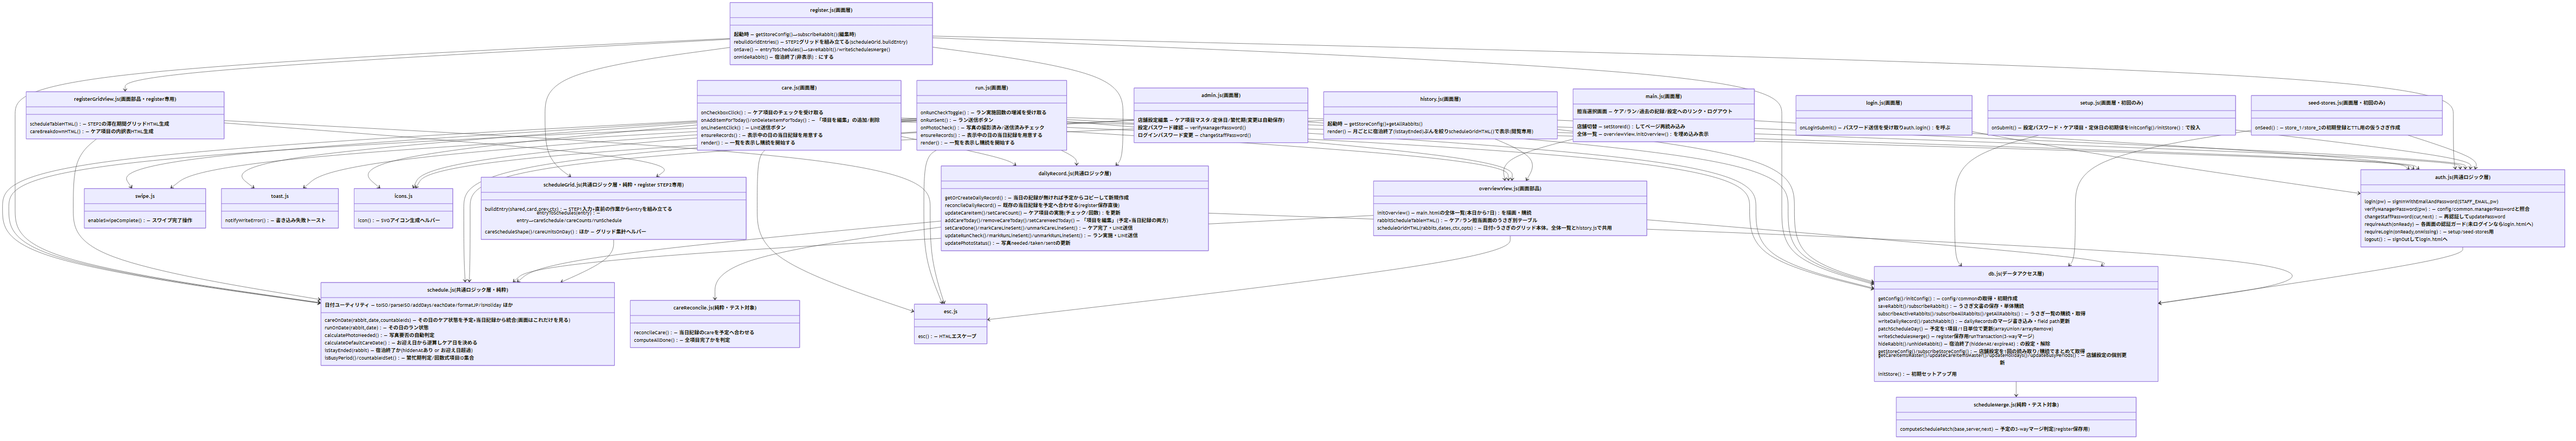
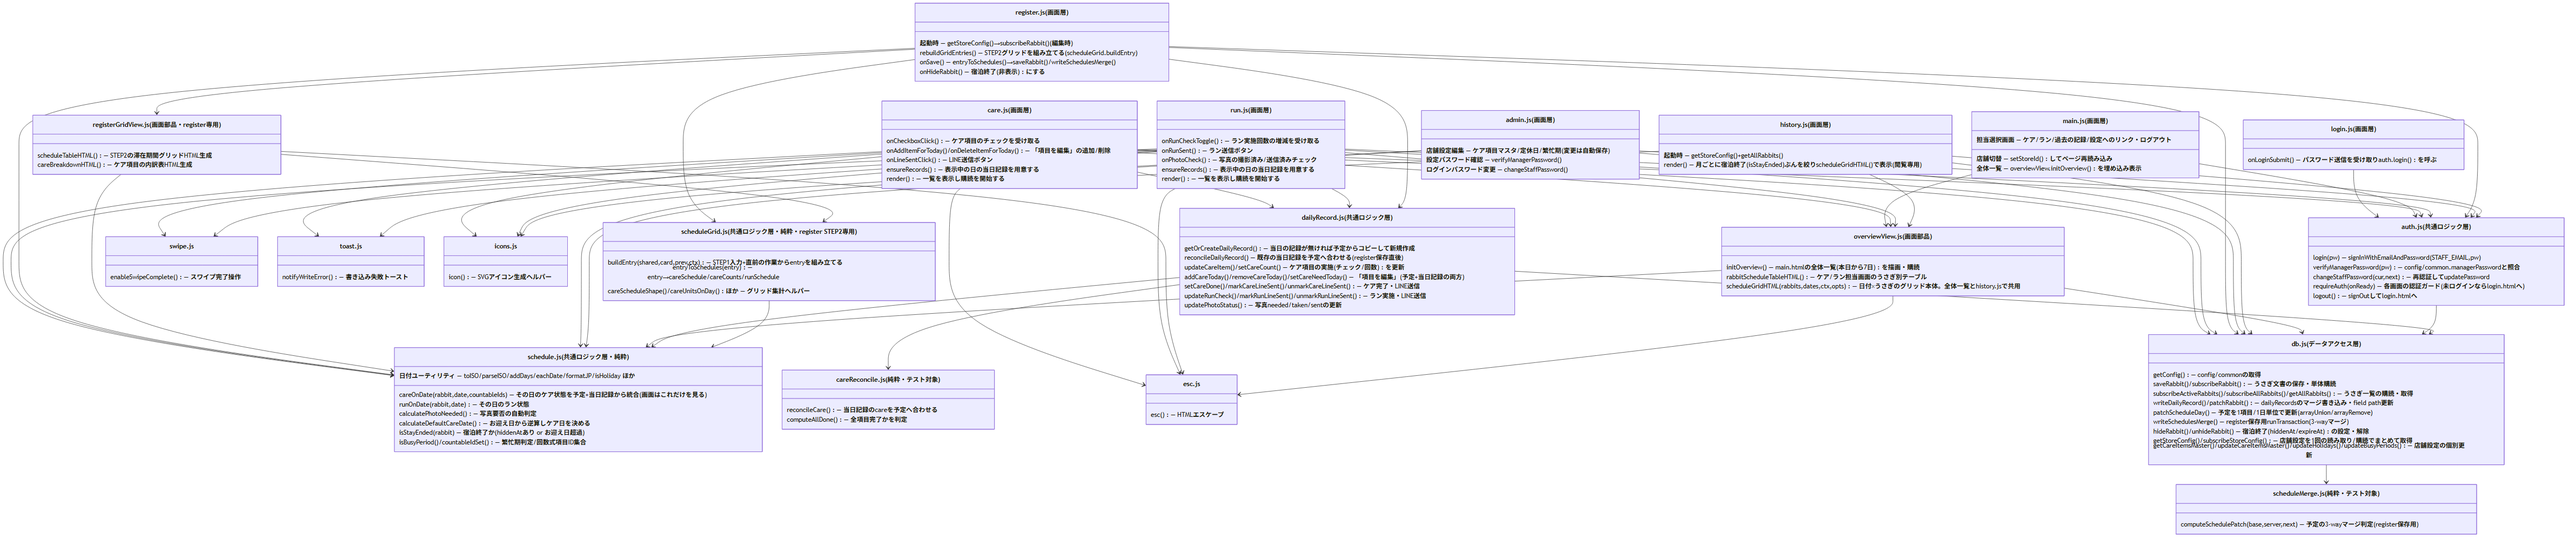
setup.html/seed-stores.htmlを削除し、初期データ投入はFirebaseコンソール手動作成に一本化
ポートフォリオとして公開する上で「誰でも自分の店舗用に再現できる」ことは
目的ではなく（実際に特定の職場[うさぎホテル2店舗]向けに作った実務ツール）、
汎用化のための機能(店舗の動的追加UI等)も今回は見送る判断とした。
一方でsetup.html/seed-stores.htmlは一度きりの初期データ投入スクリプトで
アプリ本体の機能とは無関係なため、削除してリポジトリをその分シンプルにした。

- public/setup.html・setup.js・seed-stores.html・seed-stores.js を削除
- public/auth.js: 上記からのみ呼ばれていたrequireLogin()を削除
- public/db.js: 上記からのみ呼ばれていたinitConfig()/initStore()/
  createPlaceholderRabbit()を削除(他の関数・importは影響なし)
- README.md: セットアップ手順を「Firestoreコンソールから config/common・
  stores/{storeId} を手動作成」に変更。TTLもプレースホルダ無しで設定できる
  ことを明記。冒頭に「特定の職場向けの実務ツールであり汎用SaaSではない」
  というスコープの説明を追加
- firestore.rules・firebase-config(.example).js・documents/以下の図・
  ドキュメントの参照箇所を上記に合わせて修正
- npm run check(lint/format/test 49件)は全て通過を確認

Claude-Session: https://claude.ai/code/session_011gw9igyRP9mnZMvhAfhmCy

diff --git a/public/db.js b/public/db.js
@@ -234,47 +234,4 @@ export async function updateBusyPeriods(storeId, busyPeriods) {
   await setDoc(storeRef(storeId), { busyPeriods }, { merge: true });
 }
 
-// ---- 初期セットアップ用 ----
-
-// 設定パスワード（設定画面の入口）だけを保存する。
-// スタッフのログインは Firebase Authentication の共有アカウントで行うため、
-// 共通パスワードは Firestore には置かない。
-export async function initConfig(managerPassword) {
-  await setDoc(doc(firestore, "config", "common"), { managerPassword });
-}
-
-export async function initStore(storeId, { name, holidays, careItemsMaster }) {
-  const patch = {};
-  if (name !== undefined) patch.name = name;
-  if (holidays !== undefined) patch.holidays = holidays;
-  if (careItemsMaster !== undefined) patch.careItemsMaster = careItemsMaster;
-  await setDoc(storeRef(storeId), patch, { merge: true });
-}
-
-// TTLポリシー設定用のダミーうさぎを1件作る。
-// Firestore の TTL 設定はフィールド（expireAt）が存在する文書がないと有効化できないため、
-// Timestamp 型の expireAt を持つ仮データを入れておく。hiddenAt を入れておくので
-// 稼働中の一覧（subscribeActiveRabbits / getAllRabbits）には出てこない。
-export async function createPlaceholderRabbit(storeId) {
-  const ref = await addDoc(rabbitsCol(storeId), {
-    ownerLastName: "（TTL用ダミー）",
-    rabbitName: "placeholder",
-    groupId: null,
-    checkInDate: "2000-01-01",
-    checkOutDate: "2000-01-02",
-    transportDropoff: false,
-    transportPickup: false,
-    isFirstTime: false,
-    note: "TTLポリシー設定のための仮データ。ポリシー有効化後は削除して問題ありません。",
-    careSchedule: {},
-    runSchedule: {},
-    dailyRecords: {},
-    createdAt: serverTimestamp(),
-    hiddenAt: serverTimestamp(),
-    expireAt: Timestamp.fromMillis(Date.now() + SIX_MONTHS_MS),
-    _placeholder: true,
-  });
-  return ref.id;
-}
-
 export { STORE_ID };

diff --git a/public/auth.js b/public/auth.js
@@ -75,15 +75,6 @@ export function requireAuth(onReady) {
   });
 }
 
-// setup.html / seed-stores.html 用：ログイン済みなら onReady、未ログインなら message を表示。
-// （初回セットアップは、先に login.html でログインしてから開く）
-export function requireLogin(onReady, onMissing) {
-  onAuthStateChanged(auth, (user) => {
-    if (user && !user.isAnonymous) onReady(user);
-    else onMissing();
-  });
-}
-
 export async function logout() {
   localStorage.removeItem("role");
   await signOut(auth);

diff --git a/public/firebase-config.example.js b/public/firebase-config.example.js
@@ -41,7 +41,7 @@ export const STAFF_EMAIL = "staff@example.com";
 const RECAPTCHA_SITE_KEY = "";
 
 // 店舗一覧（Firestore の stores/{id} と対応）。
-// 店舗を増やすときはこの配列に追加し、seed-stores.html で初期値を書き込む。
+// 店舗を増やすときはこの配列に追加し、Firestoreコンソールで stores/{storeId} を作成する(README参照)。
 export const STORES = [
   { id: "store_1", name: "本店" },
   { id: "store_2", name: "豊中店" },

diff --git a/documents/feature_to_function_mapping.md b/documents/feature_to_function_mapping.md
@@ -169,4 +169,4 @@
 | 店長設定(設定パスワードで保護) | admin.js → db.js(直結) |
 | 過去記録参照 | history.js → db.js(getAllRabbits) → hiddenAtありだけをoverviewView.scheduleGridHTMLで月ごとに表示(閲覧専用) |
 | 自動削除 | db.js(hideRabbitの書き込みのみ)+ Firestore TTL(削除は自動) |
-| 初期セットアップ | (先にlogin.htmlでログイン) → setup.js → auth.js(requireLogin) → db.js(initConfig)。店舗(定休日・ケア項目)はseed-stores.js → db.js(initStore) |
+| 初期セットアップ(`config/common` / `stores/{storeId}`の作成) | アプリの画面は無し。Firestoreコンソールから手動で作成(README参照) |

diff --git a/documents/README.md b/documents/README.md
@@ -8,6 +8,8 @@
 > - 認証 … メール/パスワード（匿名認証は廃止）
 > - `config/common` … `managerPassword` のみ（`commonPassword` は廃止）
 > - テスト・純粋モジュール（`schedule.js` / `scheduleGrid.js` / `scheduleMerge.js` / `careReconcile.js`） … `tests/`
+> - `setup.html` / `seed-stores.html` … **削除済み**。初期データ（`config/common` / `stores/{storeId}`）は
+>   Firestoreコンソールから手動で作成する（詳細はリポジトリ直下の `README.md`「セットアップ手順」）
 
 ## 1. システム構成
 
